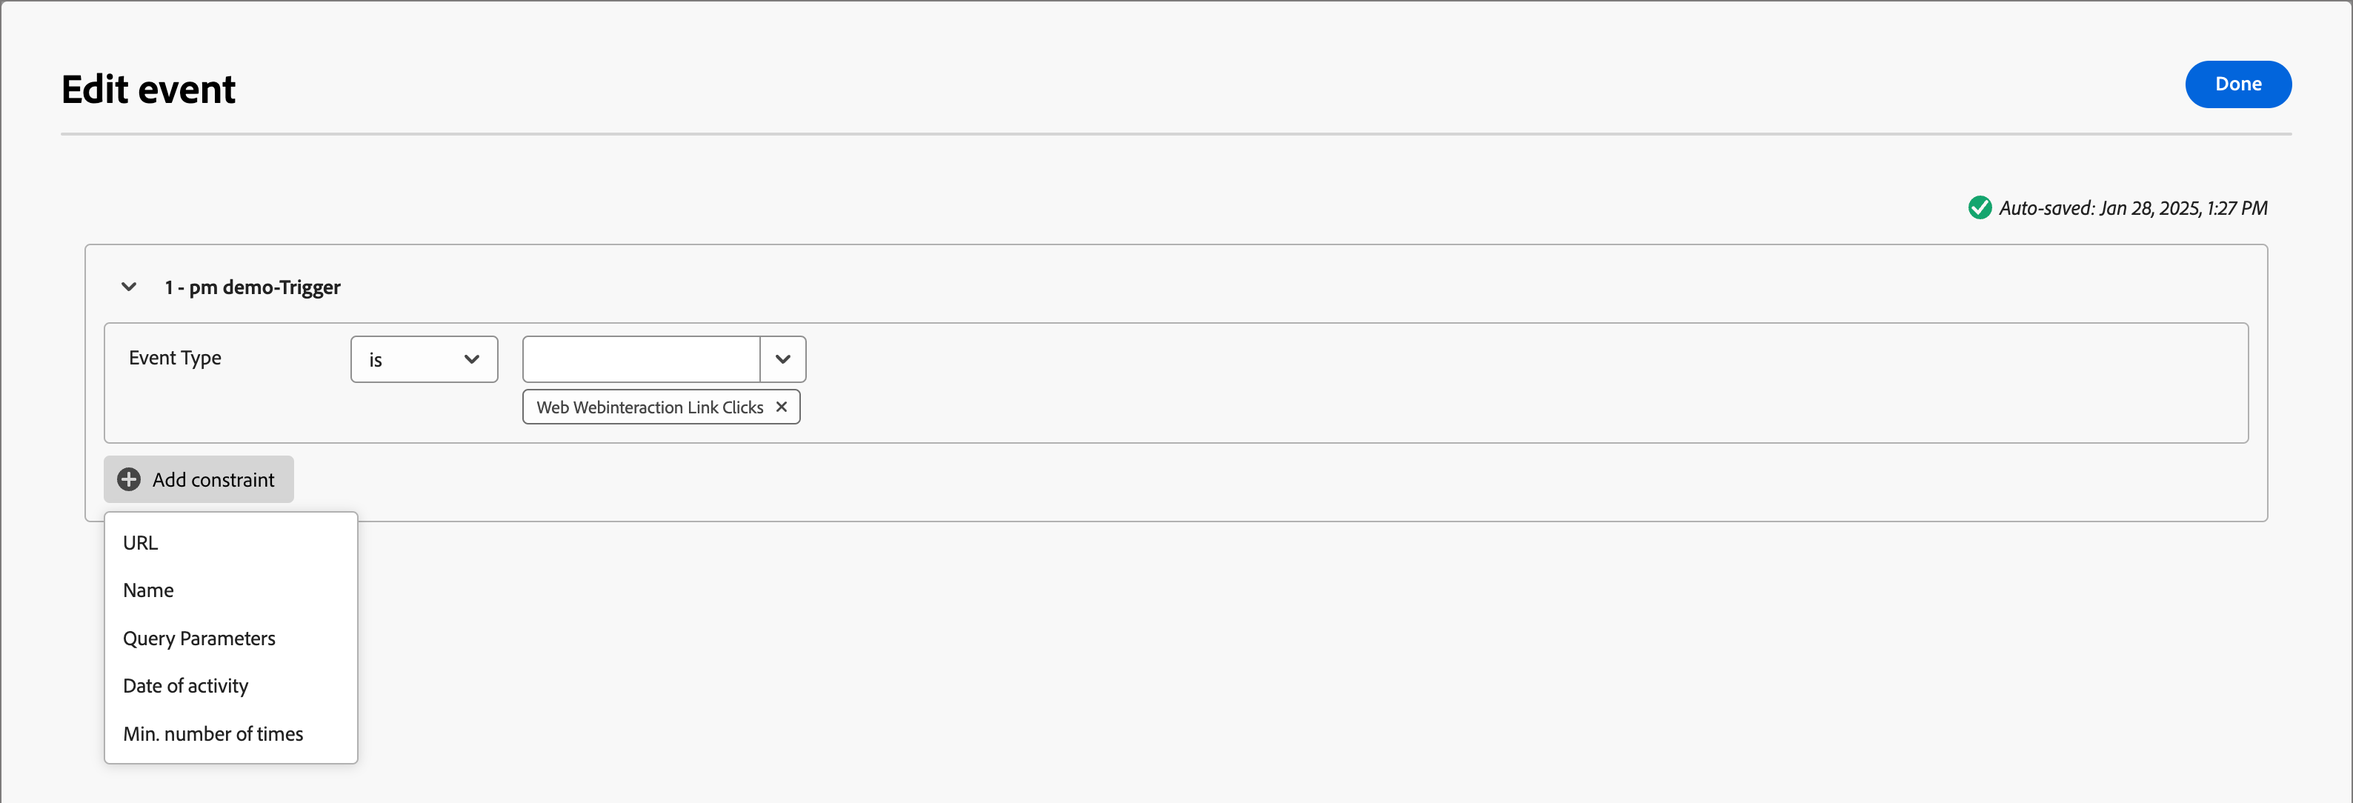
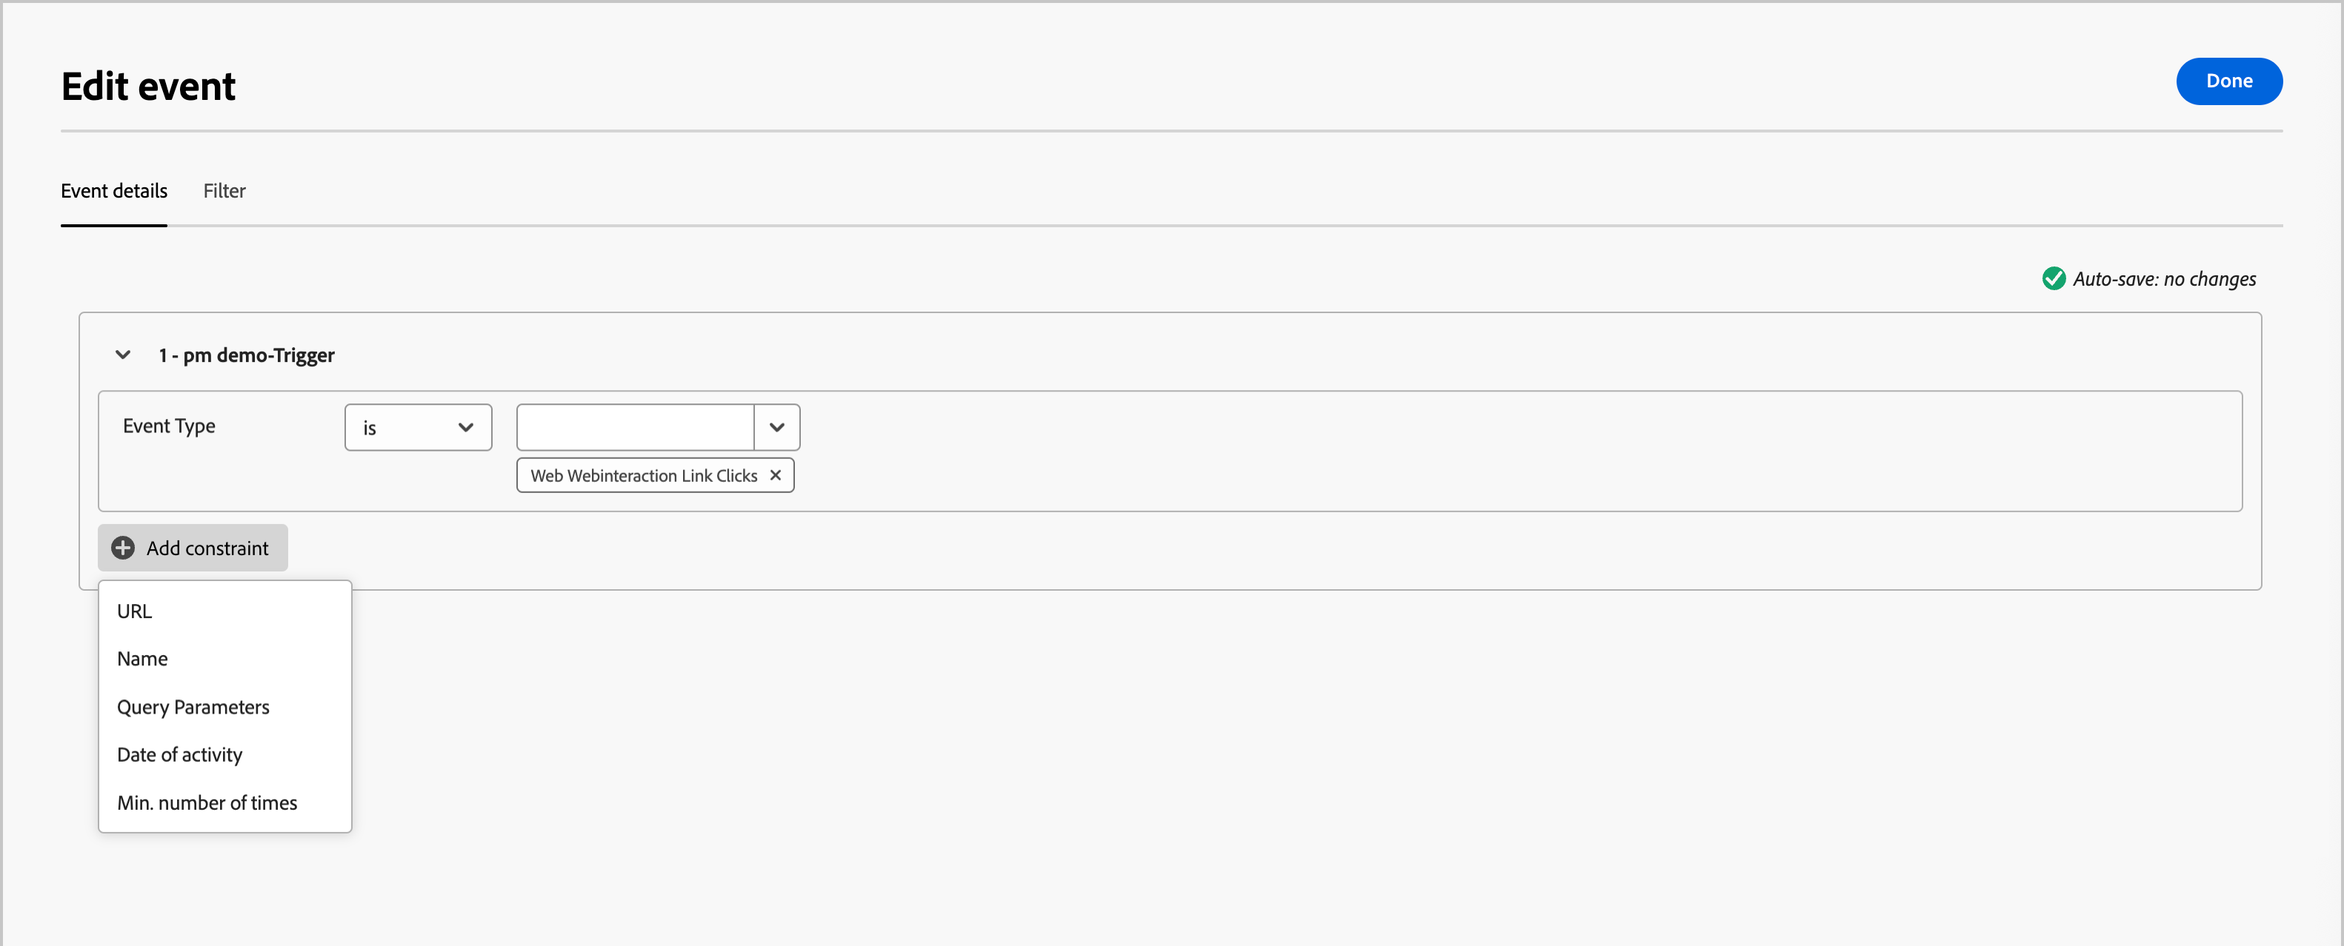
SPHR-20006, support filters in people events

diff --git a/help/user/journeys/listen-for-event-nodes.md b/help/user/journeys/listen-for-event-nodes.md
@@ -23,12 +23,12 @@ Listen for an event based on the account when you want to move the account forwa
 
 | Event | Constraints |
 | ----- | ----------- |
-| Account had interesting moment | Type (Email, Milestone, or Web)<br/>Additional constraints (optional): <li>Description</li><li>Source</li><li>Date of activity</li> <br/>Timeout (optional) |
-| Change in Account Data Value | Attribute<br/>Additional constraints (optional): <li>New value</li><li>Previous value</li><li>Date of activity</li> <br/>Timeout (optional) |
-| Change in Buying Group Stage | Solution interest<br/>Additional constraints (optional): <li>New stage</li><li>Previous stage</li><li>Date of activity</li><br/> Timeout (optional) |
-| Change in Buying Group Status | Solution interest<br/>Additional constraints (optional): <li>New status</li><li>Previous status</li><li>Date of activity</li><br/> Timeout (optional) |
-| Change in Completeness Score | Solution interest<br/>Additional constraints (optional): <li>New score</li><li>Previous score</li><li>Date of activity</li><br/> Timeout (optional) |
-| Change in Engagement Score | Solution interest<br/>Additional constraints (optional): <li>New score</li><li>Previous score</li><li>Date of activity</li><br/> Timeout (optional) |
+| [!UICONTROL Account had interesting moment] | Type (Email, Milestone, or Web)<br/>Additional constraints (optional): <li>Description</li><li>Source</li><li>Date of activity</li> <br/>Timeout (optional) |
+| [!UICONTROL Change in Account Data Value] | Attribute<br/>Additional constraints (optional): <li>New value</li><li>Previous value</li><li>Date of activity</li> <br/>Timeout (optional) |
+| [!UICONTROL Change in Buying Group Stage] | Solution interest<br/>Additional constraints (optional): <li>New stage</li><li>Previous stage</li><li>Date of activity</li><br/> Timeout (optional) |
+| [!UICONTROL Change in Buying Group Status] | Solution interest<br/>Additional constraints (optional): <li>New status</li><li>Previous status</li><li>Date of activity</li><br/> Timeout (optional) |
+| [!UICONTROL Change in Completeness Score] | Solution interest<br/>Additional constraints (optional): <li>New score</li><li>Previous score</li><li>Date of activity</li><br/> Timeout (optional) |
+| [!UICONTROL Change in Engagement Score] | Solution interest<br/>Additional constraints (optional): <li>New score</li><li>Previous score</li><li>Date of activity</li><br/> Timeout (optional) |
 
 ### Add an account event
 
@@ -46,23 +46,37 @@ Listen for an event based on the account when you want to move the account forwa
 
 ## People events
 
-Listen for an event based on people when you want to move the account forward in the journey according to events triggered by people activity.
+Listen for an event based on people when you want to move the account forward in the journey according to events triggered by people activity. You can also filter events according to people attributes, 
 
 ### Events and constraints
 
 | Input type | Event | Constraints |
 | ---------- | ----- | ----------- |
-| Journey Optimizer B2B | Assigned to Buying Group | Solution interest<br/><br/>Additional constraints (optional): <li>Role</li><li>Date of activity</li><br/>Timeout (optional) |
-| | Clicks link in email | Email<br/><br/>Additional constraints (optional): <li>Link</li><li>Link ID</li><li>Is mobile device</li><li>Device</li><li>Platform</li><li>Browser</li><li>Is predictive content</li><li>Is bot activity</li><li>Bot activity pattern</li><li>Browser</li><li>Date of activity</li><li>Min. number of times</li><br/>Timeout (optional) |
-| | Clicks link in SMS | Email<br/><br/>Additional constraints (optional): <li>Link</li><li>Device</li><li>Platform</li><li>Date of activity</li><li>Min. number of times</li><br/>Timeout (optional) |
-| | Data value changes | Person attribute<br/><br/>Additional constraints (optional): <li>New value</li><li>Previous value</li><li>Reason</li><li>Source</li><li>Date of activity</li><li>Min. number of times</li><br/>Timeout (optional) |
-| | Opens email | Email<br/><br/>Additional constraints (optional): <li>Link</li><li>Link ID</li><li>Is mobile device</li><li>Device</li><li>Platform</li><li>Browser</li><li>Is predictive content</li><li>Is bot activity</li><li>Bot activity pattern</li><li>Browser</li><li>Date of activity</li><li>Min. number of times</li><br/>Timeout (optional) |
-| | Removed from Buying Group | Solution interest<br/>Date of activity (optional)<br/>Timeout (optional) |
-| | Score is changed | Score name<br/><br/>Additional constraints (optional):<li>Change</li><li>New score</li><li>Urgency</li><li>Priority</li><li>Relative score</li><li>Relative urgency</li><li>Date of activity</li><li>Min. number of times</li><br/>Timeout (optional) |
-| | SMS Bounces| SMS message<br/><br/>Additional constraints (optional): <li>Date of activity</li><li>Min number of times</li><br/>Timeout (optional) |
-| Marketo Engage | Visits Web Page | Web page <br/> Select one or more Marketo Engage pages to match. <br/><br/>Additional constraints (optional): <li>Querystring</li><li>Client IP address</li><li>Referrer</li><li>User Agent</li><li>Search engine</li><li>Search query</li><li>Token</li><li>Browser</li><li>Platform</li><li>Device</li><li>Date of activity</li> |
-| | Fills out form | Form <br/> Select one or more Marketo Engage forms to match.  <br/><br/>Additional constraints (optional): <li>Date of activity</li><li>Querystring</li><li>Client IP address</li><li>Referrer</li><li>User agent</li><li>Platform</li><li>Device</li><br/>Timeout (optional) |
-| Adobe Experience Platform | Event definition | Event type <br/><br/>Additional constraints (optional): <li>Fields</li> <br/>Additional constraints (not supported): <li>Date of activity</li><li>Min. number of times</li><br/> Timeout (optional) |
+| Journey Optimizer B2B | [!UICONTROL Assigned to Buying Group] | Solution interest<br/><br/>Additional constraints (optional): <li>Role</li><li>Date of activity</li><br/>Timeout (optional) |
+| | [!UICONTROL Clicks link in email] | Email<br/><br/>Additional constraints (optional): <li>Link</li><li>Link ID</li><li>Is mobile device</li><li>Device</li><li>Platform</li><li>Browser</li><li>Is predictive content</li><li>Is bot activity</li><li>Bot activity pattern</li><li>Browser</li><li>Date of activity</li><li>Min. number of times</li><br/>Timeout (optional) |
+| | [!UICONTROL Clicks link in SMS] | Email<br/><br/>Additional constraints (optional): <li>Link</li><li>Device</li><li>Platform</li><li>Date of activity</li><li>Min. number of times</li><br/>Timeout (optional) |
+| | [!UICONTROL Data value changes] | Person attribute<br/><br/>Additional constraints (optional): <li>New value</li><li>Previous value</li><li>Reason</li><li>Source</li><li>Date of activity</li><li>Min. number of times</li><br/>Timeout (optional) |
+| | [!UICONTROL Opens email] | Email<br/><br/>Additional constraints (optional): <li>Link</li><li>Link ID</li><li>Is mobile device</li><li>Device</li><li>Platform</li><li>Browser</li><li>Is predictive content</li><li>Is bot activity</li><li>Bot activity pattern</li><li>Browser</li><li>Date of activity</li><li>Min. number of times</li><br/>Timeout (optional) |
+| | [!UICONTROL Removed from Buying Group] | Solution interest<br/>Date of activity (optional)<br/>Timeout (optional) |
+| | [!UICONTROL Score is changed] | Score name<br/><br/>Additional constraints (optional):<li>Change</li><li>New score</li><li>Urgency</li><li>Priority</li><li>Relative score</li><li>Relative urgency</li><li>Date of activity</li><li>Min. number of times</li><br/>Timeout (optional) |
+| | [!UICONTROL SMS Bounces]| SMS message<br/><br/>Additional constraints (optional): <li>Date of activity</li><li>Min number of times</li><br/>Timeout (optional) |
+| Marketo Engage | [!UICONTROL Visits Web Page] | Web page <br/> Select one or more Marketo Engage pages to match. <br/><br/>Additional constraints (optional): <li>Querystring</li><li>Client IP address</li><li>Referrer</li><li>User Agent</li><li>Search engine</li><li>Search query</li><li>Token</li><li>Browser</li><li>Platform</li><li>Device</li><li>Date of activity</li> |
+| | [!UICONTROL Fills out form] | Form <br/> Select one or more Marketo Engage forms to match. <br/><br/>Additional constraints (optional): <li>Date of activity</li><li>Querystring</li><li>Client IP address</li><li>Referrer</li><li>User agent</li><li>Platform</li><li>Device</li><br/>Timeout (optional) |
+| Adobe Experience Platform | [!UICONTROL Event definition] | Event type <br/><br/>Additional constraints (optional): <li>Fields</li> <br/>Additional constraints (not supported): <li>Date of activity</li><li>Min. number of times</li><br/> Timeout (optional) |
+
+## People event filters
+
+| Filters | Description |
+| ------------ | ----------- |
+| [!UICONTROL Activity history] > [!UICONTROL Email] | Email activities based on conditions that are evaluated using one or more selected email messages from earlier in the journey: <li>[!UICONTROL Clicked link in email] <li>Opened email <li>Was delivered by email <li>Was sent email <!-- <br>**[!UICONTROL Switch to inactivity filter]** - Use this option to filter based on lack of activity (a person did not have the email activity).-->|
+| [!UICONTROL Activity history] > [!UICONTROL SMS Message] | SMS activities based on conditions that are evaluated using one or more selected SMS messages from earlier in the journey: <li>[!UICONTROL Clicked link in SMS] <li>[!UICONTROL SMS Bounced] <!--  <br>**[!UICONTROL Switch to inactivity filter]** - Use this option to filter based on lack of activity (a person did not have the SMS activity). --> |
+| [!UICONTROL Activity history] > [!UICONTROL Data Value Changed] | For a selected person attribute, a value change occurred. These change types include: <li>New value<li>Previous value<li>Reason<li>Source<li>Date of activity<li>Min. number of times <!--  <br>**[!UICONTROL Switch to inactivity filter]** - Use this option to filter based on lack of activity (a person did not have a data value change). --> |
+| [!UICONTROL Activity history] > [!UICONTROL Had Interesting Moment] | Interesting moment activity that is defined in the associated Marketo Engage instance. Constraints include: <li>Milestone<li>Email<li>Web <!-- <br>**[!UICONTROL Switch to inactivity filter]** - Use this option to filter based on lack of activity (a person did not have an interesting moment).--> |
+| [!UICONTROL Activity history] > [!UICONTROL Visited web page] | Web page activity that for one or more web pages managed by the associated Marketo Engage instance. Constraints include: <li>Web page (required)<li>Date of activity<li>Client IP address <li>Querystring <li>Referrer <li>User agent <li>Search engine <li>Search query <li>Personalized URL <li>Token <li>Browser <li>Platform <li>Device <li>Min. number of times <!-- <br>**[!UICONTROL Switch to inactivity filter]** - Use this option to filter based on lack of activity (a person did not visit the web page). --> |
+| [!UICONTROL Person Attributes] | Attributes from the person profile, including: <li>City <li>Country <li>Date of birth <li>Email address <li>Email invalid <li>Email suspended <li>First name <li>Inferred state region<li>Job title <li>Last name <li>Mobile phone number <li>Person engagement score <li>Phone number <li>Postal code <li>State <li>Unsubscribed <li>Unsubscribed reason |
+| [!UICONTROL Special filters] > [!UICONTROL Member of Buying Group] | The person is or is not a buying group member evaluated against one or more of the following criteria: <li>Solution Interest</li><li>Buying Group status</li><li>Completeness Score</li><li>Engagement Score</li><li>Role</li>|
+| [!UICONTROL Special filters] > [!UICONTROL Member of List] | The person is or is not a member of one or more Marketo Engage lists. |
+| [!UICONTROL Special filters] > [!UICONTROL Member of Program] | The person is or is not a member of one or more Marketo Engage programs. |
 
 ### Add a people event
 
@@ -78,7 +92,7 @@ Listen for an event based on people when you want to move the account forward in
 
 1. Click **[!UICONTROL Edit event]** and define details for the event.
 
-### Listen for Marketo Engage event
+### Listen for a Marketo Engage event
 
 If you have web pages in your connected Marketo Engage instance, you can trigger an event based on a visit/no visit to these web pages, as well as Marketo Engage forms that were/were not filled. 
 
@@ -97,7 +111,7 @@ If you have web pages in your connected Marketo Engage instance, you can trigger
 
 1. Click **[!UICONTROL Edit event]** and define one or more web pages to match and any additional constraints for the event.
 
-   * (Required) In the _[!UICONTROL Edit event]_ dialog, define the **[!UICONTROL Web page]** or Fills out form constraint. Use **[!UICONTROL is]** (default) to match on one or more selected pages or forms. Use **[!UICONTROL is not]** to match on all page visits/forms with the exclusion of one or more selected pages/forms. Or, use **[!UICONTROL is any]** to match on any Marketo Engage web page visit or filled form.
+   * (Required) In the _[!UICONTROL Edit event]_ dialog, define the **[!UICONTROL Web page]** or **[!UICONTROL Fills out form]** constraint. Use **[!UICONTROL is]** (default) to match on one or more selected pages or forms. Use **[!UICONTROL is not]** to match on all page visits/forms with the exclusion of one or more selected pages/forms. Or, use **[!UICONTROL is any]** to match on any Marketo Engage web page visit or filled form.
 
    * (Optional) Click **[!UICONTROL Add constraint]** and choose the field that you want to use for the constraint. Set the operator and the value for the field.
 
@@ -105,7 +119,9 @@ If you have web pages in your connected Marketo Engage instance, you can trigger
 
      You can repeat this action to include additional field constraints as needed.
 
-   * When the constraints are defined, click **[!UICONTROL Done]**.
+   * If needed, select the **[!UICONTROL Filters]** tab to [add filters for the event](#add-a-filter-to-the-people-event).
+
+   * When the constraints and filters are defined, click **[!UICONTROL Done]**.
 
 1. If needed, set the **[!UICONTROL Timeout]** option to limit the time period to listen for the event (see [Add a timeout to an event node](#add-a-timeout-to-an-event-node)). 
 
@@ -151,7 +167,9 @@ _To include an Experience Event in your journey:_
 
      You can repeat this action to include additional field constraints as needed.
 
-   * When the constraints are defined, click **[!UICONTROL Done]**.
+   * If needed, select the **[!UICONTROL Filters]** tab to [add filters for the event](#add-a-filter-to-the-people-event).
+
+   * When the constraints and filters are defined, click **[!UICONTROL Done]**.
 
 1. If needed, set the **[!UICONTROL Timeout]** option to limit the time period to listen for the event (see [Add a timeout to an event node](#add-a-timeout-to-an-event-node)). 
 
@@ -160,6 +178,26 @@ _To include an Experience Event in your journey:_
 1. Complete the remaining nodes for your journey and [publish it](./journey-overview.md).
 
    When the journey is live (published) and reaches the _Listen for an event_ node, it begins listening for AEP Experience Events.
+
+### Add a filter to the people event
+
+1. After you define the event, select the **[!UICONTROL Filters]** tab in the _[!UICONTROL Edit Event]_ dialog.
+
+   ![Listen for Event node by people - Select Filters tab for editing the event](./assets/node-listen-event-people-edit-event-filters.png){width="700" zoomable="yes"}
+
+1. Add one or more filters to target the people for the event.
+
+   * Drag and drop any of the [people filters](#people-event-filters) from the left navigation and complete the match definition.
+
+      >[!NOTE]
+      >
+      >If you have custom person fields defined in the account audience schema in Experience Platform, these fields are also available under **[!UICONTROL Attributes]** to use as person attributes in filters. 
+
+   * Fine tune your filtering by applying the **[!UICONTROL Filter logic]** at the top. You choose to match all filters or any filter.
+
+      ![Person filters used in an event definition](./assets/node-split-conditions-people.png){width="700" zoomable="yes"}
+
+   * Click **[!UICONTROL Done]**.
 
 ## Add a timeout to an event node
 

diff --git a/help/user/journeys/split-merge-paths-nodes.md b/help/user/journeys/split-merge-paths-nodes.md
@@ -92,11 +92,11 @@ _**How a split path by people node works**_
 
 ![Journey node - split paths by people](./assets/node-split-paths-people.png){width="700" zoomable="yes"}
 
-### People path conditions
+### People path filters
 
-| Path conditions | Description |
-| --------------- | ----------- |
-| [!UICONTROL Activity history] > [!UICONTROL Email] | Email activities based on conditions that are evaluated using one or more selected email messages from earlier in the journey: <li>[!UICONTROL Clicked link in email] <li>Opened Email <li>Was delivered email <li>Was sent email <br>**[!UICONTROL Switch to inactivity filter]** - Use this option to filter based on lack of activity (a person did not have the email activity).|
+| Filters | Description |
+| ------------ | ----------- |
+| [!UICONTROL Activity history] > [!UICONTROL Email] | Email activities based on conditions that are evaluated using one or more selected email messages from earlier in the journey: <li>[!UICONTROL Clicked link in email] <li>Opened email <li>Was delivered email <li>Was sent email <br>**[!UICONTROL Switch to inactivity filter]** - Use this option to filter based on lack of activity (a person did not have the email activity).|
 | [!UICONTROL Activity history] > [!UICONTROL SMS Message] | SMS activities based on conditions that are evaluated using one or more selected SMS messages from earlier in the journey: <li>[!UICONTROL Clicked link in SMS] <li>[!UICONTROL SMS Bounced] <br>**[!UICONTROL Switch to inactivity filter]** - Use this option to filter based on lack of activity (a person did not have the SMS activity). |
 | [!UICONTROL Activity history] > [!UICONTROL Data Value Changed] | For a selected person attribute, a value change occurred. These change types include: <li>New value<li>Previous value<li>Reason<li>Source<li>Date of activity<li>Min. number of times <br>**[!UICONTROL Switch to inactivity filter]** - Use this option to filter based on lack of activity (a person did not have a data value change).|
 | [!UICONTROL Activity history] > [!UICONTROL Had Interesting Moment] | Interesting moment activity that is defined in the associated Marketo Engage instance. Constraints include: <li>Milestone<li>Email<li>Web <br>**[!UICONTROL Switch to inactivity filter]** - Use this option to filter based on lack of activity (a person did not have an interesting moment).|
@@ -135,7 +135,7 @@ _**How a split path by people node works**_
 
 1. In the conditions editor, add one or more filters to define the split path.
 
-   * Drag and drop any of the people attributes from the left navigation and complete the match definition.
+   * Drag and drop any of the people filters from the left navigation and complete the match definition.
 
       >[!NOTE]
       >

diff --git a/help/user/release-notes/release-notes.md b/help/user/release-notes/release-notes.md
@@ -85,7 +85,7 @@ This release includes the following new capabilities and enhancements:
 | Feature | Account list journey orchestration | Use journey action nodes to add and remove accounts for static account lists. <a href="../accounts/account-lists-journeys.md#take-an-action-node---add-to-account">Learn more</a> |
 | Enhancement | Filter journey membership in Marketo Engage | Use Adobe Journey Optimizer B2B Edition account lists for the journey audience and then use the _Member of an account list_ filter in Marketo Engage smart lists. <a href="../accounts/account-lists-journeys.md#marketo-engage-program---member-of-account-list">Learn more</a> |
 | Feature | Inactivity filters | Orchestrate journeys based on inactivity within Marketo Engage campaigns and programs, including email inactivity, interesting moments, data value changes, and visited web pages. <a href="../journeys/split-merge-paths-nodes.md#activity-filtering">Learn more</a> |
-| Enhancement | Visited web page filter | Orchestrate journeys based on activity for visited web pages associated with Marketo Engage campaigns and programs. <a href="../journeys/split-merge-paths-nodes.md#people-path-conditions">Learn more</a> |
+| Enhancement | Visited web page filter | Orchestrate journeys based on activity for visited web pages associated with Marketo Engage campaigns and programs. <a href="../journeys/split-merge-paths-nodes.md#people-path-filters">Learn more</a> |
 | Enhancement | Emails list | View a global list of active and draft emails to search, review, and update them across the associated account journeys. <a href="../content/emails-list.md">Learn more</a> |
 
 ## 2025.3 release notes

diff --git a/help/user/buying-groups/engagement-scores.md b/help/user/buying-groups/engagement-scores.md
@@ -30,7 +30,7 @@ There are two types of engagement scores:
 
 >[!BEGINSHADEBOX]
 
-The person engagement score is an attribute that is available to use for filtering in [roles templates](./buying-groups-role-templates.md#add-the-template-roles) and [journey splt-path-by-people nodes](../journeys/split-merge-paths-nodes.md#people-path-conditions).
+The person engagement score is an attribute that is available to use for filtering in [roles templates](./buying-groups-role-templates.md#add-the-template-roles) and [journey splt-path-by-people nodes](../journeys/split-merge-paths-nodes.md#people-path-filters).
 
 ![Access the configured event definitions](./assets/most-engaged-buying-groups.png){width="550" zoomable="yes"}
 
